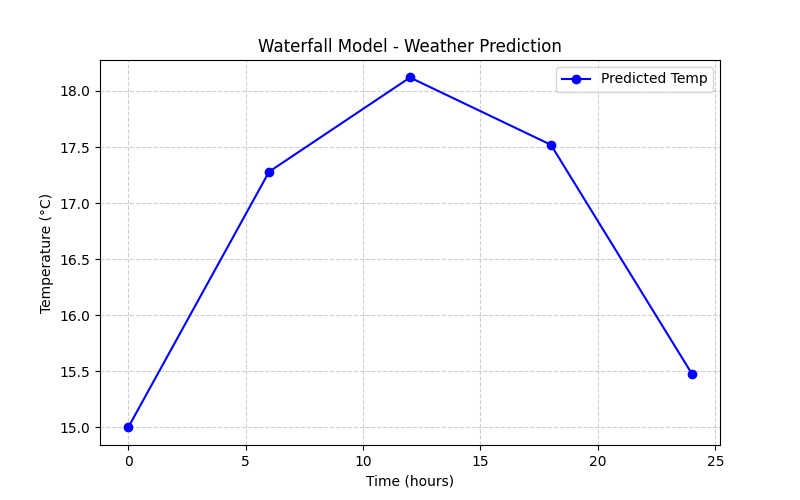
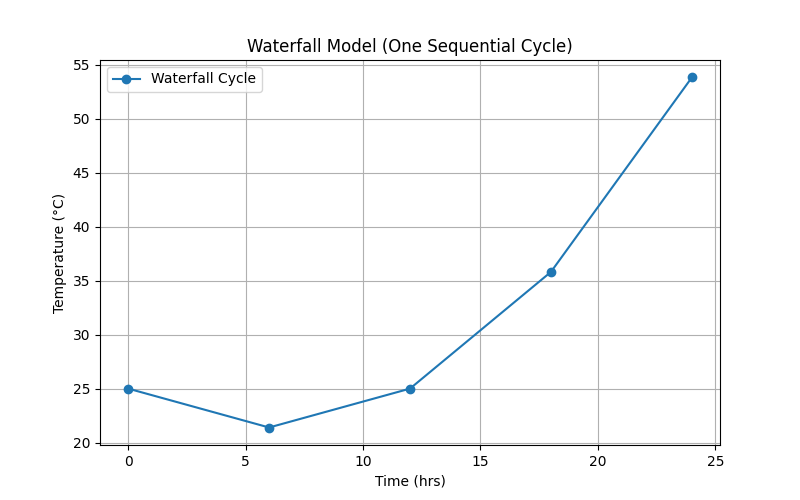
Removed old weather files and added Agile, Incremental, Iterative, and Version models with graphs

diff --git a/waterfall.py b/waterfall.py
@@ -1,31 +1,24 @@
-# ===== WATERFALL MODEL =====
 import matplotlib.pyplot as plt
 import numpy as np
 
-print("=== WATERFALL MODEL ===")
+def quadratic_weather_model(t):
+    return 0.1 * t**2 - 1.2 * t + 25
 
-# Plan -> Develop -> Test -> Deliver (one cycle)
-def quadratic_weather_model(hour):
-    # Example quadratic model: temp = a*hour² + b*hour + c
-    a, b, c = -0.02, 0.5, 15   # coefficients (adjust as needed)
-    return a * (hour ** 2) + b * hour + c
+print("=== WATERFALL MODE ===")
+hours = list(range(0, 25, 6))  # 0,6,12,18,24
+temps = [quadratic_weather_model(h) for h in hours]
 
-# Hours (every 6 hrs)
-hours = np.arange(0, 25, 6)
-temps = []
+for h, T in zip(hours, temps):
+    print(f"Time: {h} hrs -> Predicted Temp: {T:.2f}°C")
 
-# Predictions
-for hour in hours:
-    temp = quadratic_weather_model(hour)
-    temps.append(temp)
-    print(f"Time: {hour} hrs -> Predicted Temp: {temp:.2f}°C")
-
-# Plot the graph
+# Graph
 plt.figure(figsize=(8,5))
-plt.plot(hours, temps, marker='o', linestyle='-', color='b', label="Predicted Temp")
-plt.title("Waterfall Model - Weather Prediction")
-plt.xlabel("Time (hours)")
+plt.plot(hours, temps, marker="o", label="Waterfall Cycle")
+plt.title("Waterfall Model (One Sequential Cycle)")
+plt.xlabel("Time (hrs)")
 plt.ylabel("Temperature (°C)")
-plt.grid(True, linestyle="--", alpha=0.6)
+plt.grid(True)
 plt.legend()
-plt.show()
+plt.savefig("waterfall_graph.png")
+print("Graph saved as waterfall_graph.png")
+

diff --git a/incremental.py b/incremental.py
@@ -1,0 +1,40 @@
+# ===== INCREMENTAL MODEL =====
+import matplotlib.pyplot as plt
+import numpy as np
+
+print("=== INCREMENTAL MODEL ===")
+
+# Quadratic weather model
+def quadratic_weather_model(hour):
+    a, b, c = -0.02, 0.5, 15
+    return a * (hour ** 2) + b * hour + c
+
+# Increments: gradually adding more predictions
+increments = [ [0, 12, 24], [0, 6, 12, 18, 24], [0, 3, 6, 9, 12, 15, 18, 21, 24] ]
+all_temps = []
+
+for i, hours in enumerate(increments, start=1):
+    print(f"Increment {i}:")
+    temps = []
+    for hour in hours:
+        temp = quadratic_weather_model(hour)
+        temps.append(temp)
+        print(f"Time: {hour} hrs -> Temp: {temp:.2f}°C")
+    print("---")
+    all_temps.append((hours, temps))
+
+# Plot
+plt.figure(figsize=(8,5))
+for i, (hours, temps) in enumerate(all_temps, start=1):
+    plt.plot(hours, temps, marker='o', linestyle='-', label=f"Increment {i}")
+
+plt.title("Incremental Model - Weather Prediction")
+plt.xlabel("Time (hours)")
+plt.ylabel("Temperature (°C)")
+plt.grid(True, linestyle="--", alpha=0.6)
+plt.legend()
+
+# Save graph
+plt.savefig("incremental_graph.png")
+
+print("\nGraph saved as 'incremental_graph.png' in your repository.")

diff --git a/agile.py b/agile.py
@@ -1,0 +1,42 @@
+# ===== AGILE MODEL =====
+import matplotlib.pyplot as plt
+import numpy as np
+
+print("=== AGILE MODEL ===")
+
+# Quadratic weather model
+def quadratic_weather_model(hour):
+    a, b, c = -0.02, 0.5, 15
+    return a * (hour ** 2) + b * hour + c
+
+# Agile sprints
+sprints = 2
+times_to_check = [0, 6, 12, 18, 24]
+all_temps = []
+
+for sprint in range(1, sprints + 1):
+    print(f"Sprint {sprint}:")
+    temps = []
+    for t in times_to_check:
+        temp = quadratic_weather_model(t)
+        temps.append(temp)
+        print(f"Time: {t} hrs -> Temp: {temp:.2f}°C")
+    print("---")
+    all_temps.append(temps)
+
+# Plot
+plt.figure(figsize=(8,5))
+
+for i, temps in enumerate(all_temps, start=1):
+    plt.plot(times_to_check, temps, marker='o', linestyle='-', label=f"Sprint {i}")
+
+plt.title("Agile Model - Weather Prediction")
+plt.xlabel("Time (hours)")
+plt.ylabel("Temperature (°C)")
+plt.grid(True, linestyle="--", alpha=0.6)
+plt.legend()
+
+# Save graph
+plt.savefig("agile_graph.png")
+
+print("\nGraph saved as 'agile_graph.png' in your repository.")

diff --git a/version4_file_input_multiple.py b/version4_file_input_multiple.py
@@ -1,0 +1,32 @@
+# Version 4: File Input (Multiple Sets)
+import matplotlib.pyplot as plt
+import numpy as np
+
+all_times = []
+all_temps = []
+
+with open("inputs_multiple.txt", "r") as f:
+    for line in f:
+        a, b, c, t = map(float, line.strip().split())
+        T = a * t**2 + b * t + c
+        print(f"a={a}, b={b}, c={c}, t={t} -> T={T:.2f}°C")
+
+        # Store curve and point for plotting
+        times = np.linspace(0, 10, 100)
+        temps = a * times**2 + b * times + c
+        all_times.append((times, t))
+        all_temps.append((temps, T))
+
+# Plot all sets
+plt.figure(figsize=(8,5))
+for i, ((times, t), (temps, T)) in enumerate(zip(all_times, all_temps), start=1):
+    plt.plot(times, temps, label=f"Set {i}")
+    plt.scatter([t], [T], label=f"Set {i}: t={t}, T={T:.2f}°C")
+
+plt.title("Version 4: File Input (Multiple Sets)")
+plt.xlabel("Time (t)")
+plt.ylabel("Temperature (°C)")
+plt.legend()
+plt.grid(True)
+plt.savefig("version4_graph.png")
+print("Graph saved as version4_graph.png")

diff --git a/iterative.py b/iterative.py
@@ -1,0 +1,29 @@
+import matplotlib.pyplot as plt
+import numpy as np
+
+def quadratic_weather_model(t):
+    return 0.1 * t**2 - 1.2 * t + 25
+
+print("\n=== ITERATIVE MODE ===")
+iterations = {}
+for iteration in range(1, 4):
+    print(f"Iteration {iteration}:")
+    hours = list(range(0, 25, 12))  # 0,12,24
+    temps = [quadratic_weather_model(h) for h in hours]
+    iterations[iteration] = (hours, temps)
+    for h, T in zip(hours, temps):
+        print(f"Time: {h} hrs -> Temp: {T:.2f}°C")
+    print("---")
+
+# Graph
+plt.figure(figsize=(8,5))
+for i, (hours, temps) in iterations.items():
+    plt.plot(hours, temps, marker="o", label=f"Iteration {i}")
+
+plt.title("Iterative Model (Multiple Cycles with Updates)")
+plt.xlabel("Time (hrs)")
+plt.ylabel("Temperature (°C)")
+plt.grid(True)
+plt.legend()
+plt.savefig("iterative_graph.png")
+print("Graph saved as iterative_graph.png")

diff --git a/version2_keyboard_input.py b/version2_keyboard_input.py
@@ -1,0 +1,28 @@
+# Version 2: Keyboard Input
+import matplotlib.pyplot as plt
+import numpy as np
+
+# Get coefficients and time from user
+a = float(input("Enter coefficient a: "))
+b = float(input("Enter coefficient b: "))
+c = float(input("Enter coefficient c: "))
+t = float(input("Enter time t (hour/day): "))
+
+T = a * t**2 + b * t + c
+print(f"Predicted temperature at t={t}: {T:.2f}°C")
+
+# Graph
+times = np.linspace(0, 10, 100)
+temps = a * times**2 + b * times + c
+
+plt.figure(figsize=(8,5))
+plt.plot(times, temps, label="Temperature Curve")
+plt.scatter([t], [T], color="red", label=f"t={t}, T={T:.2f}°C")
+plt.title("Version 2: Keyboard Input")
+plt.xlabel("Time (t)")
+plt.ylabel("Temperature (°C)")
+plt.legend()
+plt.grid(True)
+plt.savefig("version2_graph.png")
+print("Graph saved as version2_graph.png")
+ 

diff --git a/version3_file_input_single.py b/version3_file_input_single.py
@@ -1,0 +1,30 @@
+# Version 3: File Input (Single Set)
+import matplotlib.pyplot as plt
+import numpy as np
+
+# Read values from file
+with open("inputs_single.txt", "r") as f:
+    lines = f.readlines()
+
+a = float(lines[0])
+b = float(lines[1])
+c = float(lines[2])
+t = float(lines[3])
+
+T = a * t**2 + b * t + c
+print(f"Predicted temperature at t={t}: {T:.2f}°C")
+
+# Graph
+times = np.linspace(0, 10, 100)
+temps = a * times**2 + b * times + c
+
+plt.figure(figsize=(8,5))
+plt.plot(times, temps, label="Temperature Curve")
+plt.scatter([t], [T], color="red", label=f"t={t}, T={T:.2f}°C")
+plt.title("Version 3: File Input (Single Set)")
+plt.xlabel("Time (t)")
+plt.ylabel("Temperature (°C)")
+plt.legend()
+plt.grid(True)
+plt.savefig("version3_graph.png")
+print("Graph saved as version3_graph.png")

diff --git a/version1_hardcoded.py b/version1_hardcoded.py
@@ -1,0 +1,28 @@
+# Version 1: Hardcoded Values
+import matplotlib.pyplot as plt
+import numpy as np
+
+# Hardcoded coefficients
+a = 0.5
+b = -3
+c = 28
+
+# Example time
+t = 5
+T = a * t**2 + b * t + c
+print(f"Predicted temperature at t={t}: {T:.2f}°C")
+
+# Graph over a range of times
+times = np.linspace(0, 10, 100)
+temps = a * times**2 + b * times + c
+
+plt.figure(figsize=(8,5))
+plt.plot(times, temps, label="Temperature Curve")
+plt.scatter([t], [T], color="red", label=f"t={t}, T={T:.2f}°C")
+plt.title("Version 1: Hardcoded Coefficients")
+plt.xlabel("Time (t)")
+plt.ylabel("Temperature (°C)")
+plt.legend()
+plt.grid(True)
+plt.savefig("version1_graph.png")
+print("Graph saved as version1_graph.png")
